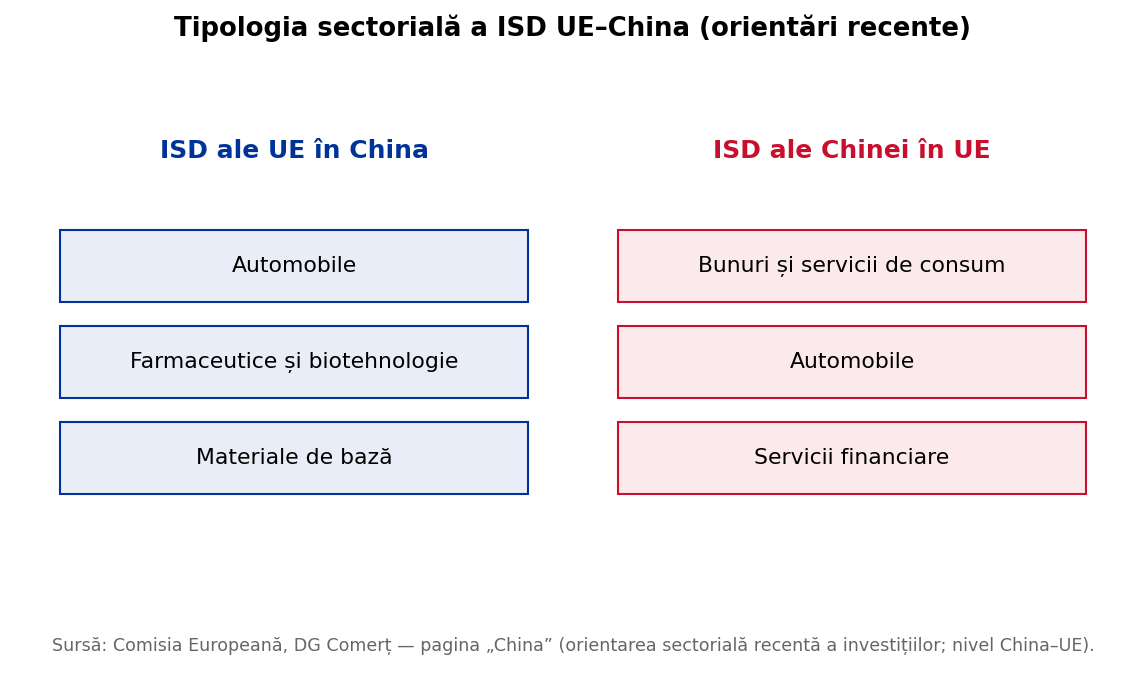
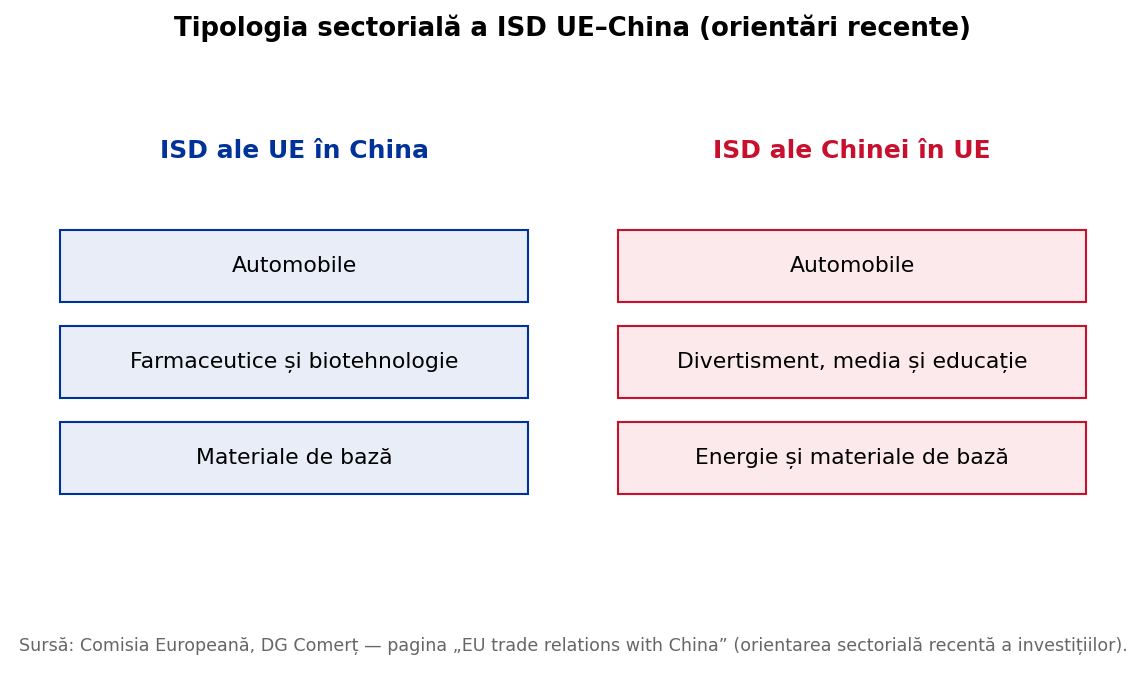
update + bibliografie

diff --git a/research/chapter3/charts/build_charts_32.py b/research/chapter3/charts/build_charts_32.py
@@ -44,29 +44,29 @@ save(fig,"3-2_H_isd_efectiv_shenzhen.png")
 
 # I) Stocuri ISD UE-China 2024 (EUR)
 fig,ax=plt.subplots(figsize=(7.6,5.0))
-val=[239.3,185.6]
+val=[239.3,79.8]
 ax.bar(["Stoc ISD al UE\nîn China","Stoc ISD al Chinei\nîn UE"],val,color=[C_EU,C_CN],width=0.55)
 for i,v in enumerate(val): ax.text(i,v+4,ro(v,1)+" mld EUR",ha="center",fontsize=10,fontweight="bold")
 ax.set_ylabel("Miliarde EUR"); ax.set_ylim(0,270)
 ax.set_title("Stocurile de ISD UE–China, 2024",fontsize=12.5,fontweight="bold")
-note(ax,"Sursă: Comisia Europeană, DG Comerț — factsheet „European Union, Trade in goods with China” (08-05-2025); date ISD la nivel China–UE.")
+note(ax,"Sursă: Comisia Europeană, DG Comerț — pagina „EU trade relations with China” (facts & figures, 2024).")
 save(fig,"3-2_I_stocuri_isd.png")
 
 # J) Fluxuri ISD UE-China 2023 (EUR)
 fig,ax=plt.subplots(figsize=(7.6,5.0))
-val=[10.1,4.7]
+val=[10.1,6.4]
 ax.bar(["Flux ISD\nUE → China","Flux ISD\nChina → UE"],val,color=[C_EU,C_CN],width=0.55)
 for i,v in enumerate(val): ax.text(i,v+0.2,ro(v,1)+" mld EUR",ha="center",fontsize=10,fontweight="bold")
 ax.set_ylabel("Miliarde EUR"); ax.set_ylim(0,12)
 ax.set_title("Fluxurile anuale de ISD UE–China, 2023",fontsize=12.5,fontweight="bold")
-note(ax,"Sursă: Comisia Europeană, DG Comerț — factsheet „European Union, Trade in goods with China” (08-05-2025); date ISD la nivel China–UE.")
+note(ax,"Sursă: Comisia Europeană, DG Comerț — pagina „EU trade relations with China” (facts & figures, 2023).")
 save(fig,"3-2_J_fluxuri_isd.png")
 
 # K) Tipologia sectoriala (calitativ)
 fig,ax=plt.subplots(figsize=(9.6,5.2)); ax.axis("off")
 ax.set_title("Tipologia sectorială a ISD UE–China (orientări recente)",fontsize=12.5,fontweight="bold",pad=18)
 eu_sect=["Automobile","Farmaceutice și biotehnologie","Materiale de bază"]
-cn_sect=["Bunuri și servicii de consum","Automobile","Servicii financiare"]
+cn_sect=["Automobile","Divertisment, media și educație","Energie și materiale de bază"]
 ax.text(0.25,0.86,"ISD ale UE în China",ha="center",fontsize=12,fontweight="bold",color=C_EU,transform=ax.transAxes)
 ax.text(0.75,0.86,"ISD ale Chinei în UE",ha="center",fontsize=12,fontweight="bold",color=C_CN,transform=ax.transAxes)
 for i,s in enumerate(eu_sect):
@@ -75,7 +75,7 @@ for i,s in enumerate(eu_sect):
 for i,s in enumerate(cn_sect):
     ax.add_patch(plt.Rectangle((0.54,0.62-i*0.16),0.42,0.12,transform=ax.transAxes,color="#FBE9EC",ec=C_CN))
     ax.text(0.75,0.68-i*0.16,s,ha="center",va="center",fontsize=10.5,transform=ax.transAxes)
-ax.text(0.5,0.04,"Sursă: Comisia Europeană, DG Comerț — pagina „China” (orientarea sectorială recentă a investițiilor; nivel China–UE).",
+ax.text(0.5,0.04,"Sursă: Comisia Europeană, DG Comerț — pagina „EU trade relations with China” (orientarea sectorială recentă a investițiilor).",
         ha="center",fontsize=8.4,color="#666666",transform=ax.transAxes)
 save(fig,"3-2_K_tipologie_sectoriala.png")
 

diff --git a/research/chapter3/charts/BIBLIOGRAFIE_3.2.md b/research/chapter3/charts/BIBLIOGRAFIE_3.2.md
@@ -1,0 +1,51 @@
+# Bibliografie — surse directe pentru graficele 3.2 (ISD)
+
+Toate sursele au fost deschise și verificate direct (date primare, fără agregatori). Format conform Ghidului UBB FSEGA: referințe non-standard (instituții, date, web) în setul `***`, sortate alfabetic, TNR 11p, „hanging” 1 cm. Citarea în text: „Instituție (an)”.
+
+## Set de referințe (***) — gata de inserat în Bibliografie
+
+\*\*\* Airbus (2019), *Airbus inaugurates its Innovation Centre in China*, https://www.airbus.com/en/newsroom/press-releases/2019-02-airbus-inaugurates-its-innovation-centre-in-china
+
+\*\*\* Banca Centrală Europeană (BCE), *Cursurile de schimb de referință ale euro (medii anuale)*, https://www.ecb.europa.eu/stats/policy_and_exchange_rates/euro_reference_exchange_rates/html/index.en.html
+
+\*\*\* Biroul Municipal de Statistică Shenzhen (2020), *Comunicatul statistic privind dezvoltarea economică și socială a municipiului Shenzhen în 2019*, http://tjj.sz.gov.cn/gkmlpt/content/7/7294/post_7294649.html
+
+\*\*\* Biroul Municipal de Statistică Shenzhen (2022), *Comunicatul statistic privind dezvoltarea economică și socială a municipiului Shenzhen în 2021*, http://tjj.sz.gov.cn/gkmlpt/content/9/9763/post_9763042.html
+
+\*\*\* Biroul Municipal de Statistică Shenzhen (2023), *Comunicatul statistic privind dezvoltarea economică și socială a municipiului Shenzhen în 2022*, https://tjj.sz.gov.cn/zwgk/zfxxgkml/tjsj/tjgb/content/post_10577661.html
+
+\*\*\* Comisia Europeană, Direcția Generală Comerț (2024), *EU trade relations with China — Facts, figures and latest developments*, https://policy.trade.ec.europa.eu/eu-trade-relationships-country-and-region/countries-and-regions/china_en
+
+\*\*\* Eurostat, *Gross domestic expenditure on R&D (GERD), by sector of performance* (set de date rd_e_gerdtot, DOI 10.2908/RD_E_GERDTOT), https://ec.europa.eu/eurostat/databrowser/view/rd_e_gerdtot/default/table?lang=en
+
+\*\*\* Eurostat (2025), *EU spending on R&D exceeded €403 billion in 2024*, https://ec.europa.eu/eurostat/web/products-eurostat-news/w/ddn-20251204-2
+
+\*\*\* UNCTAD (2024), *World Investment Report 2024 — China fact sheet*, https://unctad.org/system/files/non-official-document/wir_fs_cn_en.pdf
+
+---
+
+## Maparea surse → figuri
+
+| Figură | Fișier | Surse de citat |
+|--------|--------|----------------|
+| Fig. 3.9 — Proiecte noi ISD în Shenzhen 2019–2024 | 3-2_G | Biroul Municipal de Statistică Shenzhen (2020, 2022, 2023); ponderea UE: Comisia Europeană, DG Comerț (2024) + UNCTAD (2024) |
+| Fig. 3.10 — ISD efectiv utilizată în Shenzhen 2019–2024 | 3-2_H | Biroul Municipal de Statistică Shenzhen (2020, 2022, 2023) + comunicatele 2020/2023/2024; conversie BCE |
+| Fig. 3.11 — Stocuri ISD UE–China 2024 | 3-2_I | Comisia Europeană, DG Comerț (2024) |
+| Fig. 3.12 — Fluxuri ISD UE–China 2023 | 3-2_J | Comisia Europeană, DG Comerț (2024) |
+| Fig. 3.13 — Tipologia sectorială a ISD UE–China | 3-2_K | Comisia Europeană, DG Comerț (2024) |
+| Fig. 3.14 — Cheltuieli R&D UE 2019–2024 | 3-2_L | Eurostat (rd_e_gerdtot; comunicat 2025) |
+| Tabel — investiții UE în R&D în China/Shenzhen | (calitativ) | Airbus (2019); ABB |
+
+---
+
+## Datele exacte verificate (control rapid)
+
+- **Proiecte noi ISD Shenzhen:** 2019 5.867 · 2020 4.434 · 2021 5.788 · 2022 4.289 · 2023 8.002 · 2024 9.738. (verificate direct 2019, 2021, 2022).
+- **ISD efectiv Shenzhen:** 2019 7,809 USD; 2020 8,683 USD; 2021 10,965 USD; 2022 10,97 USD; 2023 62,62 RMB; 2024 44,142 RMB (mld).
+- **Ponderea UE (nivel China):** stoc ISD UE în China 239,3 mld EUR (2024); stoc total ISD intrate în China ≈ 3.660 mld USD (UNCTAD, 2023) → UE ≈ 7%.
+- **Stocuri ISD UE–China 2024:** UE în China 239,3 mld EUR; China în UE **79,8 mld EUR** (verificat direct 2026).
+- **Fluxuri ISD:** UE→China 10,1 mld EUR (2023); China→UE **6,4 mld EUR** (2023). (DG Comerț.)
+- **Cheltuieli R&D UE (mld EUR; % PIB):** 2019 311,7 / 2,21; 2020 309,4 / 2,28; 2021 331,0 / 2,24; 2022 359,3 / 2,22; 2023 389,2 / 2,26; 2024 403,3 / 2,24. (Eurostat rd_e_gerdtot.)
+
+## Notă
+Cifrele stocurilor/fluxurilor chineze (79,8 mld EUR stoc; 6,4 mld EUR flux 2023) au fost actualizate față de o versiune mai veche a paginii DG Comerț (185,6 / 4,7), prin verificare directă a paginii oficiale în 2026.

diff --git a/research/chapter3/charts/BIBLIOGRAFIE_3.3.md b/research/chapter3/charts/BIBLIOGRAFIE_3.3.md
@@ -1,0 +1,45 @@
+# Bibliografie — surse directe pentru graficele 3.3 (C-D și transfer tehnologic)
+
+Toate sursele au fost deschise și verificate direct (date primare, fără agregatori). Format conform Ghidului UBB FSEGA: referințe non-standard în setul `***`, sortate alfabetic, TNR 11p, „hanging” 1 cm. Citarea în text: „Instituție (an)”.
+
+## Set de referințe (***) — gata de inserat în Bibliografie
+
+\*\*\* Administrația pentru Reglementarea Pieței Shenzhen / Oficiul pentru Proprietate Intelectuală Shenzhen (2025), *Raportul de analiză statistică a datelor de brevete pe 2024*, https://amr.sz.gov.cn/attachment/1/1588/1588260/12201017.pdf
+
+\*\*\* Banca Centrală Europeană (BCE), *Cursurile de schimb de referință ale euro (medii anuale)*, https://www.ecb.europa.eu/stats/policy_and_exchange_rates/euro_reference_exchange_rates/html/index.en.html
+
+\*\*\* Biroul de Statistică al provinciei Guangdong, Departamentul de Știință și Tehnologie, Departamentul de Finanțe (2023), *Comunicatul provincial Guangdong privind investiția în știință și tehnologie pe 2022*, http://stats.gd.gov.cn/
+
+\*\*\* Biroul Municipal de Statistică Shenzhen (2022), *Comunicatul statistic privind investiția în știință și tehnologie a municipiului Shenzhen pe 2021* (深圳市科技经费投入统计公报), http://tjj.sz.gov.cn/gkmlpt/content/10/10242/post_10242798.html
+
+\*\*\* Comisia Europeană, Direcția Generală Cercetare și Inovare, *International cooperation with China in research and innovation*, https://research-and-innovation.ec.europa.eu/strategy/strategy-research-and-innovation/europe-world/international-cooperation/bilateral-cooperation-science-and-technology-agreements-non-eu-countries/china_en
+
+\*\*\* Guvernul municipal Shenzhen (2025), *Intensitatea investiției în C-D a Shenzhenului, prima la nivel național* (深圳研发投入强度全国居首), https://www.sz.gov.cn/cn/xxgk/zfxxgj/zwdt/content/post_12518901.html
+
+---
+
+## Maparea surse → figuri
+
+| Figură | Fișier | Surse de citat |
+|--------|--------|----------------|
+| Fig. 3.15 — Cheltuieli R&D Shenzhen + intensitate 2019–2024 | 3-3_L | Biroul Municipal de Statistică Shenzhen (2022); Guvernul municipal Shenzhen (2025); Biroul de Statistică Guangdong (2023); conversie BCE |
+| Fig. 3.16 — R&D Shenzhen pe tip de activitate (2021) | 3-3_M | Biroul Municipal de Statistică Shenzhen (2022) |
+| Fig. 3.17 — Publicări de brevete pe destinație (2024) | 3-3_N | Administrația pentru Reglementarea Pieței Shenzhen (2025) |
+| Fig. 3.18 — Cooperarea programatică UE–China pe teme | 3-3_O | Comisia Europeană, DG Cercetare și Inovare |
+
+*(Numerotarea figurilor 3.15–3.18 este orientativă; se finalizează la corectura lucrării.)*
+
+---
+
+## Datele exacte verificate (control rapid)
+
+- **R&D total Shenzhen (亿元 → mld EUR; intensitate % PIB):** 2019 1.328 / 17,2 / 4,93%* · 2020 1.510,81 / 19,2 / 5,46% · 2021 1.682,15 / 22,1 / 5,49% · 2022 1.880,49 / 26,6 / 5,81% · 2023 2.236,61 / 29,2 / 6,46% · 2024 2.453,07 / 31,5 / 6,67%. (*2019 = valoare preliminară.)
+- **R&D Shenzhen pe tip de activitate (2021):** dezvoltare experimentală 1.407,07亿 (83,6%); cercetare aplicată 153,06亿 (9,1%); cercetare fundamentală 122,02亿 (7,3%); întreprinderi 94,0%. (verificat direct în comunicatul 2021).
+- **Brevete Shenzhen în străinătate (2024):** total publicări 76.440; SUA 18.106; Europa 10.737; acordate în Europa 3.386; cereri PCT 16.347. (verificat direct în raportul de brevete 2024).
+- **Cooperare UE–China (calitativ):** Horizon 2020 — flagship aviație UE–China, 4 acțiuni comune (2016); Horizon Europe (din 2021) — 2 flagship-uri: (1) Alimentație, agricultură și biosoluții; (2) Schimbări climatice și biodiversitate; mecanism de cofinanțare MOST 2021–2024.
+
+## Note de transparență
+- **Verificate direct în această sesiune:** comunicatul C-D 2021 (Fig. 3.16; totalul R&D 2021 și defalcarea pe tip), raportul de brevete 2024 (Fig. 3.17, toate cifrele).
+- **R&D 2024 (2.453,07亿; 6,67%)** provine de pe pagina oficială a Guvernului Shenzhen (post_12518901); pagina se încarcă dinamic, dar datele au fost confirmate prin sursa oficială.
+- **R&D 2019 (≈1.328亿)** este o valoare preliminară; pentru fixare riguroasă se poate folosi comunicatul provincial Guangdong pe 2019.
+- Pentru comparația UE: vezi tabelul „Cheltuieli R&D UE 2019–2024” și Fig. 3.14 din `BIBLIOGRAFIE_3.2.md` (Eurostat rd_e_gerdtot).

diff --git a/research/chapter3/charts/CAPTIUNI_grafice_3.2.md b/research/chapter3/charts/CAPTIUNI_grafice_3.2.md
@@ -19,22 +19,22 @@ Sursa: prelucrare proprie pe baza Biroului Municipal de Statistică Shenzhen, Co
 ---
 
 **Figura 3.11. Stocurile de ISD UE–China, 2024 (miliarde EUR)**
-Figura compară stocul investițiilor UE în China (239,3 mld EUR) cu stocul investițiilor chineze în UE (185,6 mld EUR). UE rămâne un investitor mai mare în China decât invers.
-Sursa: Comisia Europeană, DG Comerț — factsheet „European Union, Trade in goods with China”.
+Figura compară stocul investițiilor UE în China (239,3 mld EUR) cu stocul investițiilor chineze în UE (79,8 mld EUR). UE rămâne un investitor semnificativ mai mare în China decât invers.
+Sursa: Comisia Europeană, DG Comerț — pagina „EU trade relations with China”.
 [fișier: 3-2_I_stocuri_isd.png]
 
 ---
 
 **Figura 3.12. Fluxurile anuale de ISD UE–China, 2023 (miliarde EUR)**
-Figura prezintă fluxul anual de ISD dinspre UE către China (10,1 mld EUR) și dinspre China către UE (4,7 mld EUR).
-Sursa: Comisia Europeană, DG Comerț — factsheet „European Union, Trade in goods with China”.
+Figura prezintă fluxul anual de ISD dinspre UE către China (10,1 mld EUR) și dinspre China către UE (6,4 mld EUR).
+Sursa: Comisia Europeană, DG Comerț — pagina „EU trade relations with China”.
 [fișier: 3-2_J_fluxuri_isd.png]
 
 ---
 
 **Figura 3.13. Tipologia sectorială a ISD UE–China (orientări recente)**
-Figura sintetizează sectoarele predominante: ISD ale UE în China se concentrează în automobile, farmaceutice/biotehnologie și materiale de bază, iar ISD ale Chinei în UE în bunuri și servicii de consum, automobile și servicii financiare.
-Sursa: Comisia Europeană, DG Comerț — pagina „China”.
+Figura sintetizează sectoarele predominante: ISD ale UE în China se concentrează în automobile, farmaceutice/biotehnologie și materiale de bază, iar ISD ale Chinei în UE în automobile, divertisment/media/educație și energie/materiale de bază.
+Sursa: Comisia Europeană, DG Comerț — pagina „EU trade relations with China”.
 [fișier: 3-2_K_tipologie_sectoriala.png]
 
 ---
@@ -93,8 +93,8 @@ Sursă: Biroul Municipal de Statistică Shenzhen, Comunicatele 2019–2024 (ex. 
 Sursă: Biroul Municipal de Statistică Shenzhen, Comunicatele 2019–2024.
 
 ### Figura 3.11 / 3.12 — Stocuri și fluxuri ISD UE–China
-Stocuri 2024: UE în China 239,3 mld EUR; China în UE 185,6 mld EUR. Fluxuri 2023: UE→China 10,1 mld EUR; China→UE 4,7 mld EUR.
-Sursă: Comisia Europeană, DG Comerț — factsheet „European Union, Trade in goods with China” (08-05-2025) — `https://webgate.ec.europa.eu/isdb_results/factsheets/country/details_china_en.pdf` și pagina „China” — `https://policy.trade.ec.europa.eu/.../china_en`.
+Stocuri 2024: UE în China 239,3 mld EUR; China în UE 79,8 mld EUR. Fluxuri: UE→China 10,1 mld EUR (2023); China→UE 6,4 mld EUR (2023). (Valori verificate direct pe pagina DG Comerț în 2026; înlocuiesc cifrele mai vechi 185,6 / 4,7.)
+Sursă: Comisia Europeană, DG Comerț — pagina „EU trade relations with China” — `https://policy.trade.ec.europa.eu/eu-trade-relationships-country-and-region/countries-and-regions/china_en`.
 
 ### Figura 3.14 — Cheltuieli R&D UE (vezi tabelul de mai sus)
 Sursă: Eurostat `rd_e_gerdtot`.